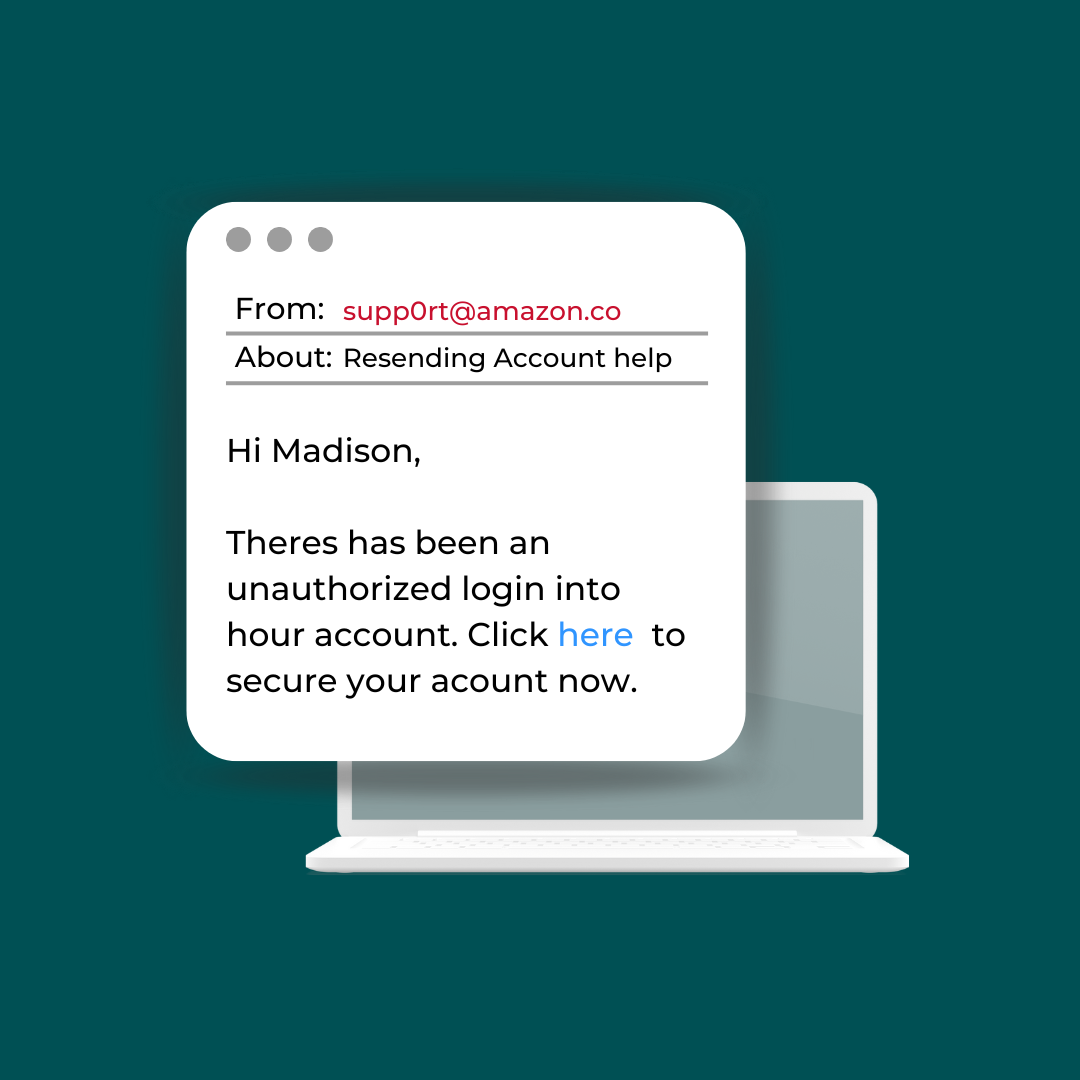
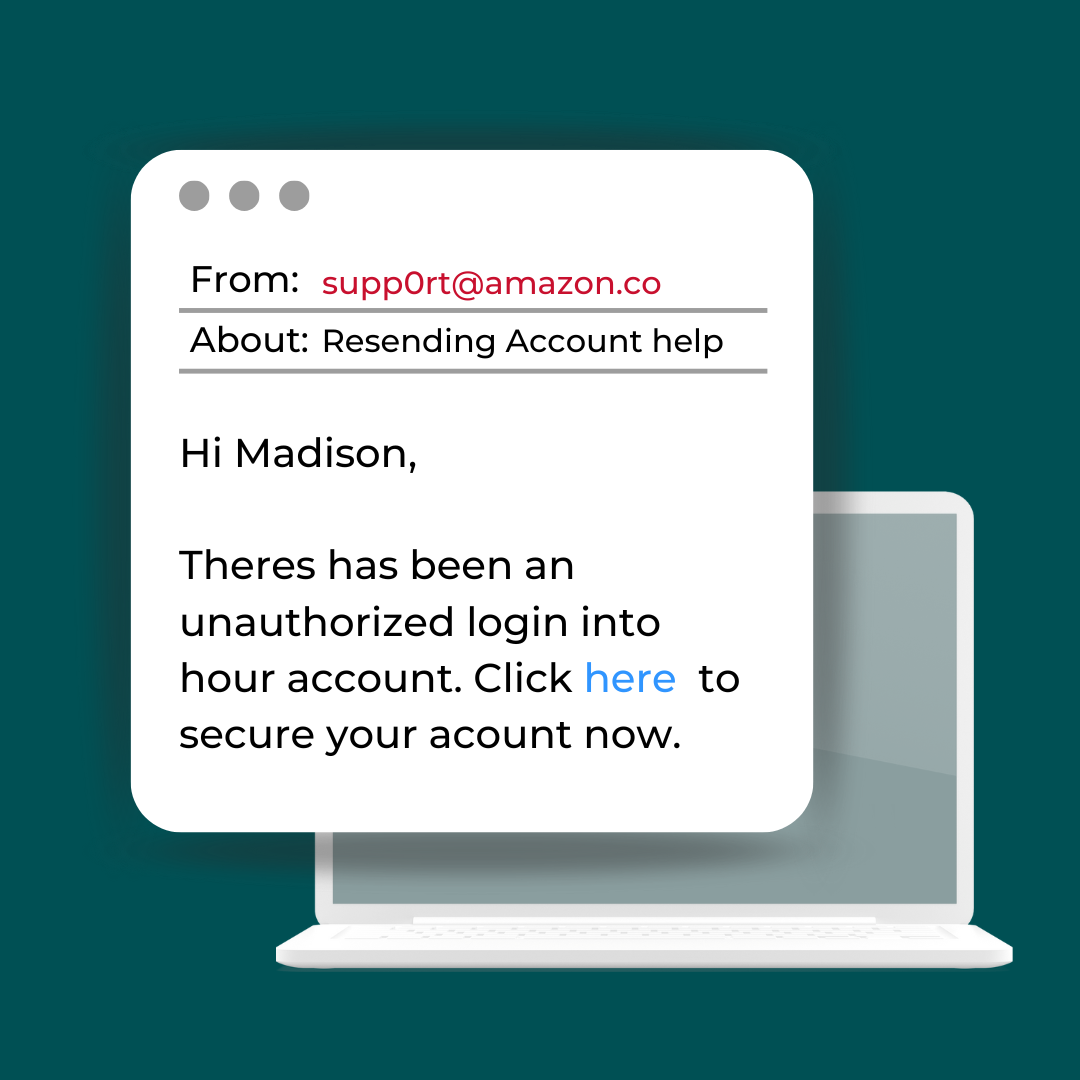
vishing Image

diff --git a/FormsOfPhishing.html b/FormsOfPhishing.html
@@ -255,7 +255,7 @@
   
       <div class="form-block">
         <h2>Vishing</h2>
-        <img src="https://via.placeholder.com/600x400" alt="Vishing example">
+        <img src="Images/Vishing.png" alt="Vishing example">
         <p>Vishing, or voice phishing, involves attackers calling victims and pretending to be trusted entities to extract sensitive information.</p>
       </div>
   
